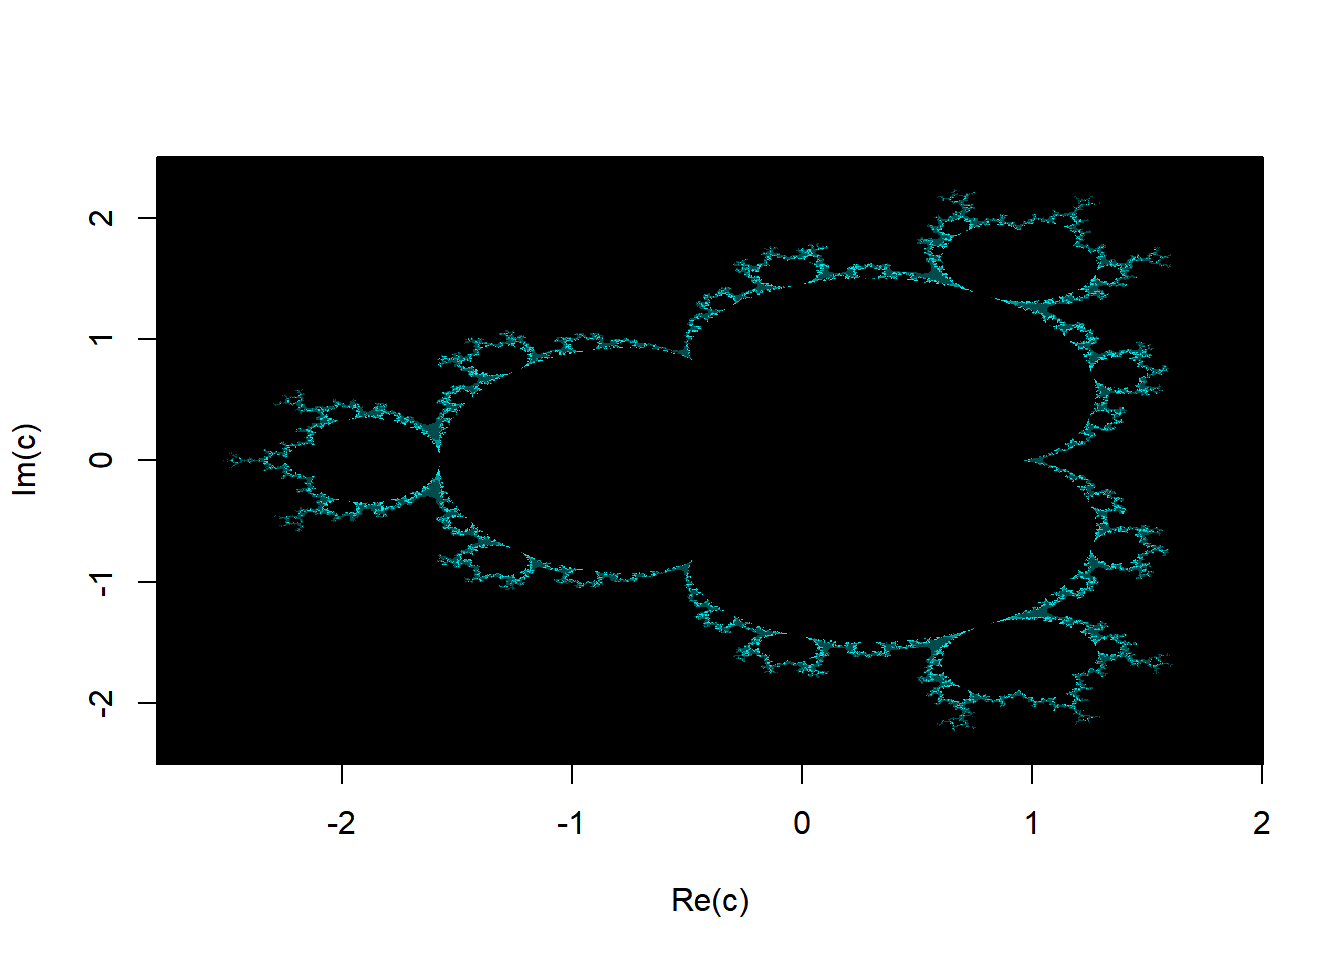
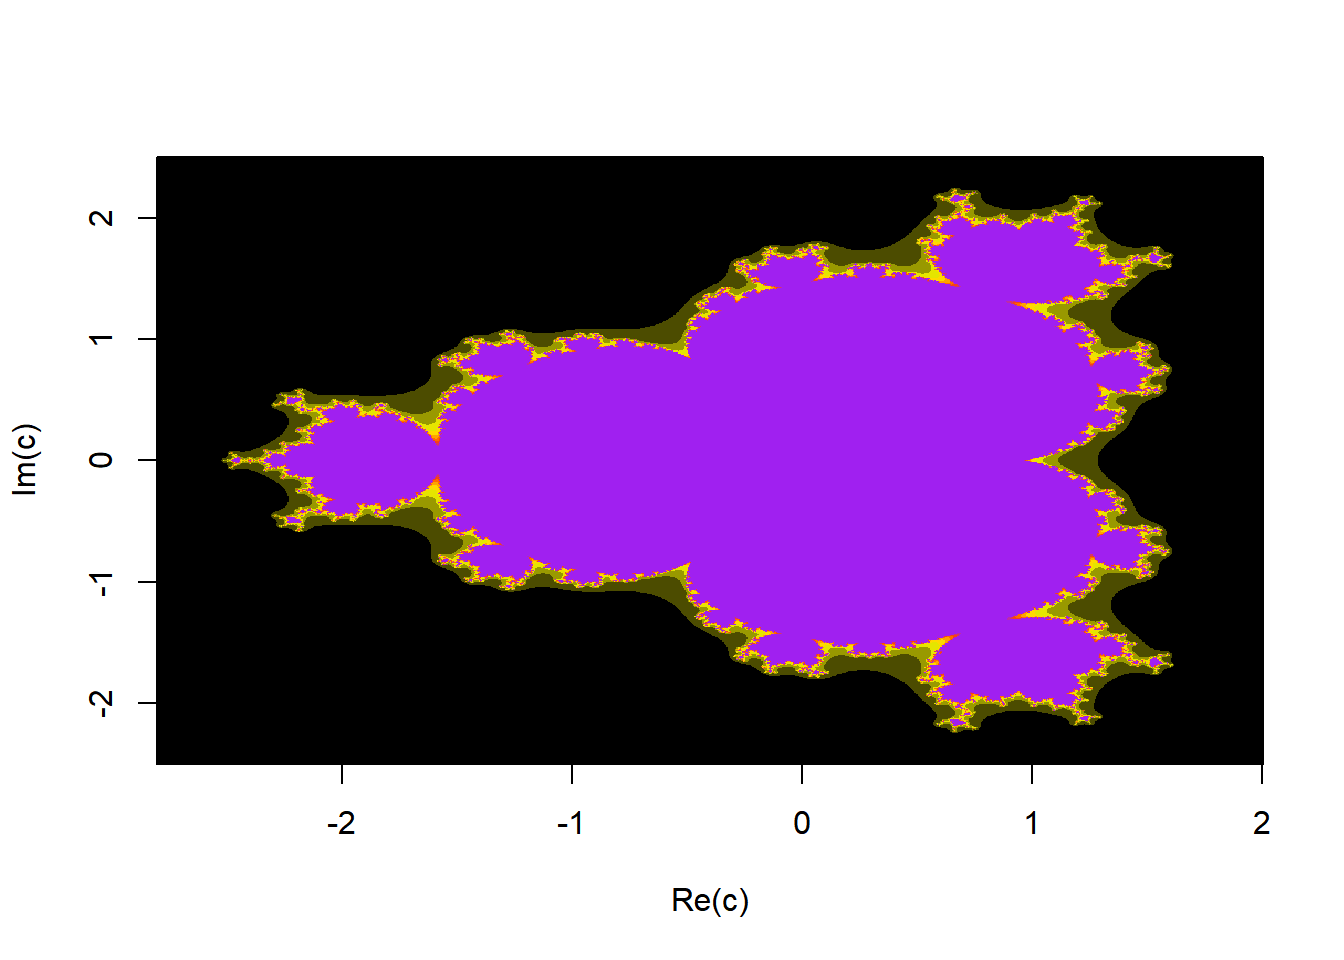
commit layout and colour changes to final image

Changed region(s): [[0.1562, 0.1875, 0.875, 0.7812]]

diff --git a/content/post/2020-03-18-the-mandelbrot-set-in-r.html b/content/post/2020-03-18-the-mandelbrot-set-in-r.html
@@ -59,13 +59,15 @@ topics: []
 }</code></pre>
 <p>Running this function with all the arguments as set (note that these differ somewhat to the arguments in the original) leads to the following:</p>
 <pre class="r"><code>mandelbrot_generator(p=2, q=1)</code></pre>
-<p><img src="/post/2020-03-18-the-mandelbrot-set-in-r_files/figure-html/unnamed-chunk-2-1.png" width="672" />
-This is the code I used to create the logo for Dandelbrot.com. I find fractal geometry hugely pleasing. I love dynamical systems and the idea that such simple iterative functions can produce such complex and intricate behaviour. The Mandelbrot set is just a commonly known embodiment of this. I urge you to play around with the code and see what else you can come up with. For example, what adjustments to the basic iterative equation can you make, and how does it impact the result? Below, I have tweaked the original <code>mandelbrot_generator()</code> function to enable general powers:
+<p><img src="/post/2020-03-18-the-mandelbrot-set-in-r_files/figure-html/unnamed-chunk-2-1.png" width="672" /></p>
+<p>This is the code I used to create the logo for Dandelbrot.com. I find fractal geometry hugely pleasing. I love dynamical systems and the idea that such simple iterative functions can produce such complex and intricate behaviour. The Mandelbrot set is just a commonly known embodiment of this. I urge you to play around with the code and see what else you can come up with. For example, what adjustments to the basic iterative equation can you make, and how does it impact the result? Below, I have tweaked the original <code>mandelbrot_generator()</code> function to enable general powers:
 <span class="math display">\[
 z_{n+1} = z_n^p + c^q.
 \]</span>
 When <span class="math inline">\(p=4\)</span> and <span class="math inline">\(q=0.5\)</span> and the necessary adjustments to the plotting window are made, the following image is generated:</p>
-<pre class="r"><code>mandelbrot_generator(p=4, q=0.5, xmin = -2.8, xmax = 2, ymin = -2.5, ymax = 2.5, nx=1000, ny=1000, n=75)</code></pre>
+<pre class="r"><code>mandelbrot_generator(p=4, q=0.5, xmin = -2.8, xmax = 2, 
+                     ymin = -2.5, ymax = 2.5, nx=1000, ny=1000, n=25,
+                     cols = colorRampPalette(c(&quot;black&quot;,&quot;yellow&quot;,&quot;orangered&quot;,&quot;purple&quot;))(11))</code></pre>
 <p><img src="/post/2020-03-18-the-mandelbrot-set-in-r_files/figure-html/unnamed-chunk-3-1.png" width="672" /></p>
 <p>This is a very simple tweak, but I imagine with some thought and creativity, some really interesting things might crop up. Also, please contact me if you’ve played with R for generating other fractal objects, dynamical systems and chaotic systems and the likes. I’d be interested to see what other people have come up with.</p>
 </div>

diff --git a/public/post/the-mandelbrot-set-in-r/index.html b/public/post/the-mandelbrot-set-in-r/index.html
@@ -292,13 +292,15 @@
 }</code></pre>
 <p>Running this function with all the arguments as set (note that these differ somewhat to the arguments in the original) leads to the following:</p>
 <pre class="r"><code>mandelbrot_generator(p=2, q=1)</code></pre>
-<p><img src="/post/2020-03-18-the-mandelbrot-set-in-r_files/figure-html/unnamed-chunk-2-1.png" width="672" />
-This is the code I used to create the logo for Dandelbrot.com. I find fractal geometry hugely pleasing. I love dynamical systems and the idea that such simple iterative functions can produce such complex and intricate behaviour. The Mandelbrot set is just a commonly known embodiment of this. I urge you to play around with the code and see what else you can come up with. For example, what adjustments to the basic iterative equation can you make, and how does it impact the result? Below, I have tweaked the original <code>mandelbrot_generator()</code> function to enable general powers:
+<p><img src="/post/2020-03-18-the-mandelbrot-set-in-r_files/figure-html/unnamed-chunk-2-1.png" width="672" /></p>
+<p>This is the code I used to create the logo for Dandelbrot.com. I find fractal geometry hugely pleasing. I love dynamical systems and the idea that such simple iterative functions can produce such complex and intricate behaviour. The Mandelbrot set is just a commonly known embodiment of this. I urge you to play around with the code and see what else you can come up with. For example, what adjustments to the basic iterative equation can you make, and how does it impact the result? Below, I have tweaked the original <code>mandelbrot_generator()</code> function to enable general powers:
 <span class="math display">\[
 z_{n+1} = z_n^p + c^q.
 \]</span>
 When <span class="math inline">\(p=4\)</span> and <span class="math inline">\(q=0.5\)</span> and the necessary adjustments to the plotting window are made, the following image is generated:</p>
-<pre class="r"><code>mandelbrot_generator(p=4, q=0.5, xmin = -2.8, xmax = 2, ymin = -2.5, ymax = 2.5, nx=1000, ny=1000, n=75)</code></pre>
+<pre class="r"><code>mandelbrot_generator(p=4, q=0.5, xmin = -2.8, xmax = 2, 
+                     ymin = -2.5, ymax = 2.5, nx=1000, ny=1000, n=25,
+                     cols = colorRampPalette(c(&quot;black&quot;,&quot;yellow&quot;,&quot;orangered&quot;,&quot;purple&quot;))(11))</code></pre>
 <p><img src="/post/2020-03-18-the-mandelbrot-set-in-r_files/figure-html/unnamed-chunk-3-1.png" width="672" /></p>
 <p>This is a very simple tweak, but I imagine with some thought and creativity, some really interesting things might crop up. Also, please contact me if you’ve played with R for generating other fractal objects, dynamical systems and chaotic systems and the likes. I’d be interested to see what other people have come up with.</p>
 </div>

diff --git a/public/index.html b/public/index.html
@@ -261,7 +261,7 @@
   </header>
 
   <p>
-  This being my first post to Dandelbrot.com, I thought it only fitting to post something about the Mandelbrot set. I determined to code up a mandelbrot set fractal generator in R. After a little digging I came across this R-bloggers post from 2014. I figured, rather than reinvent the wheel, I might as well just borrow code from here, with all due kutos to Myles Harrison, the original author.
+  This being my first post to Dandelbrot.com, I thought it only fitting to post something about the Mandelbrot set. I determined to code up a mandelbrot set fractal generator in R. After a little digging I came across this R-bloggers post from 2014. I figured, rather than reinvent the wheel, I might as well just borrow code from here, with all due kudos to Myles Harrison, the original author.
   </p>
 
   

diff --git a/public/tags/fractals-in-r/index.html b/public/tags/fractals-in-r/index.html
@@ -260,7 +260,7 @@
   </header>
 
   <p>
-  This being my first post to Dandelbrot.com, I thought it only fitting to post something about the Mandelbrot set. I determined to code up a mandelbrot set fractal generator in R. After a little digging I came across this R-bloggers post from 2014. I figured, rather than reinvent the wheel, I might as well just borrow code from here, with all due kutos to Myles Harrison, the original author.
+  This being my first post to Dandelbrot.com, I thought it only fitting to post something about the Mandelbrot set. I determined to code up a mandelbrot set fractal generator in R. After a little digging I came across this R-bloggers post from 2014. I figured, rather than reinvent the wheel, I might as well just borrow code from here, with all due kudos to Myles Harrison, the original author.
   </p>
 
   
